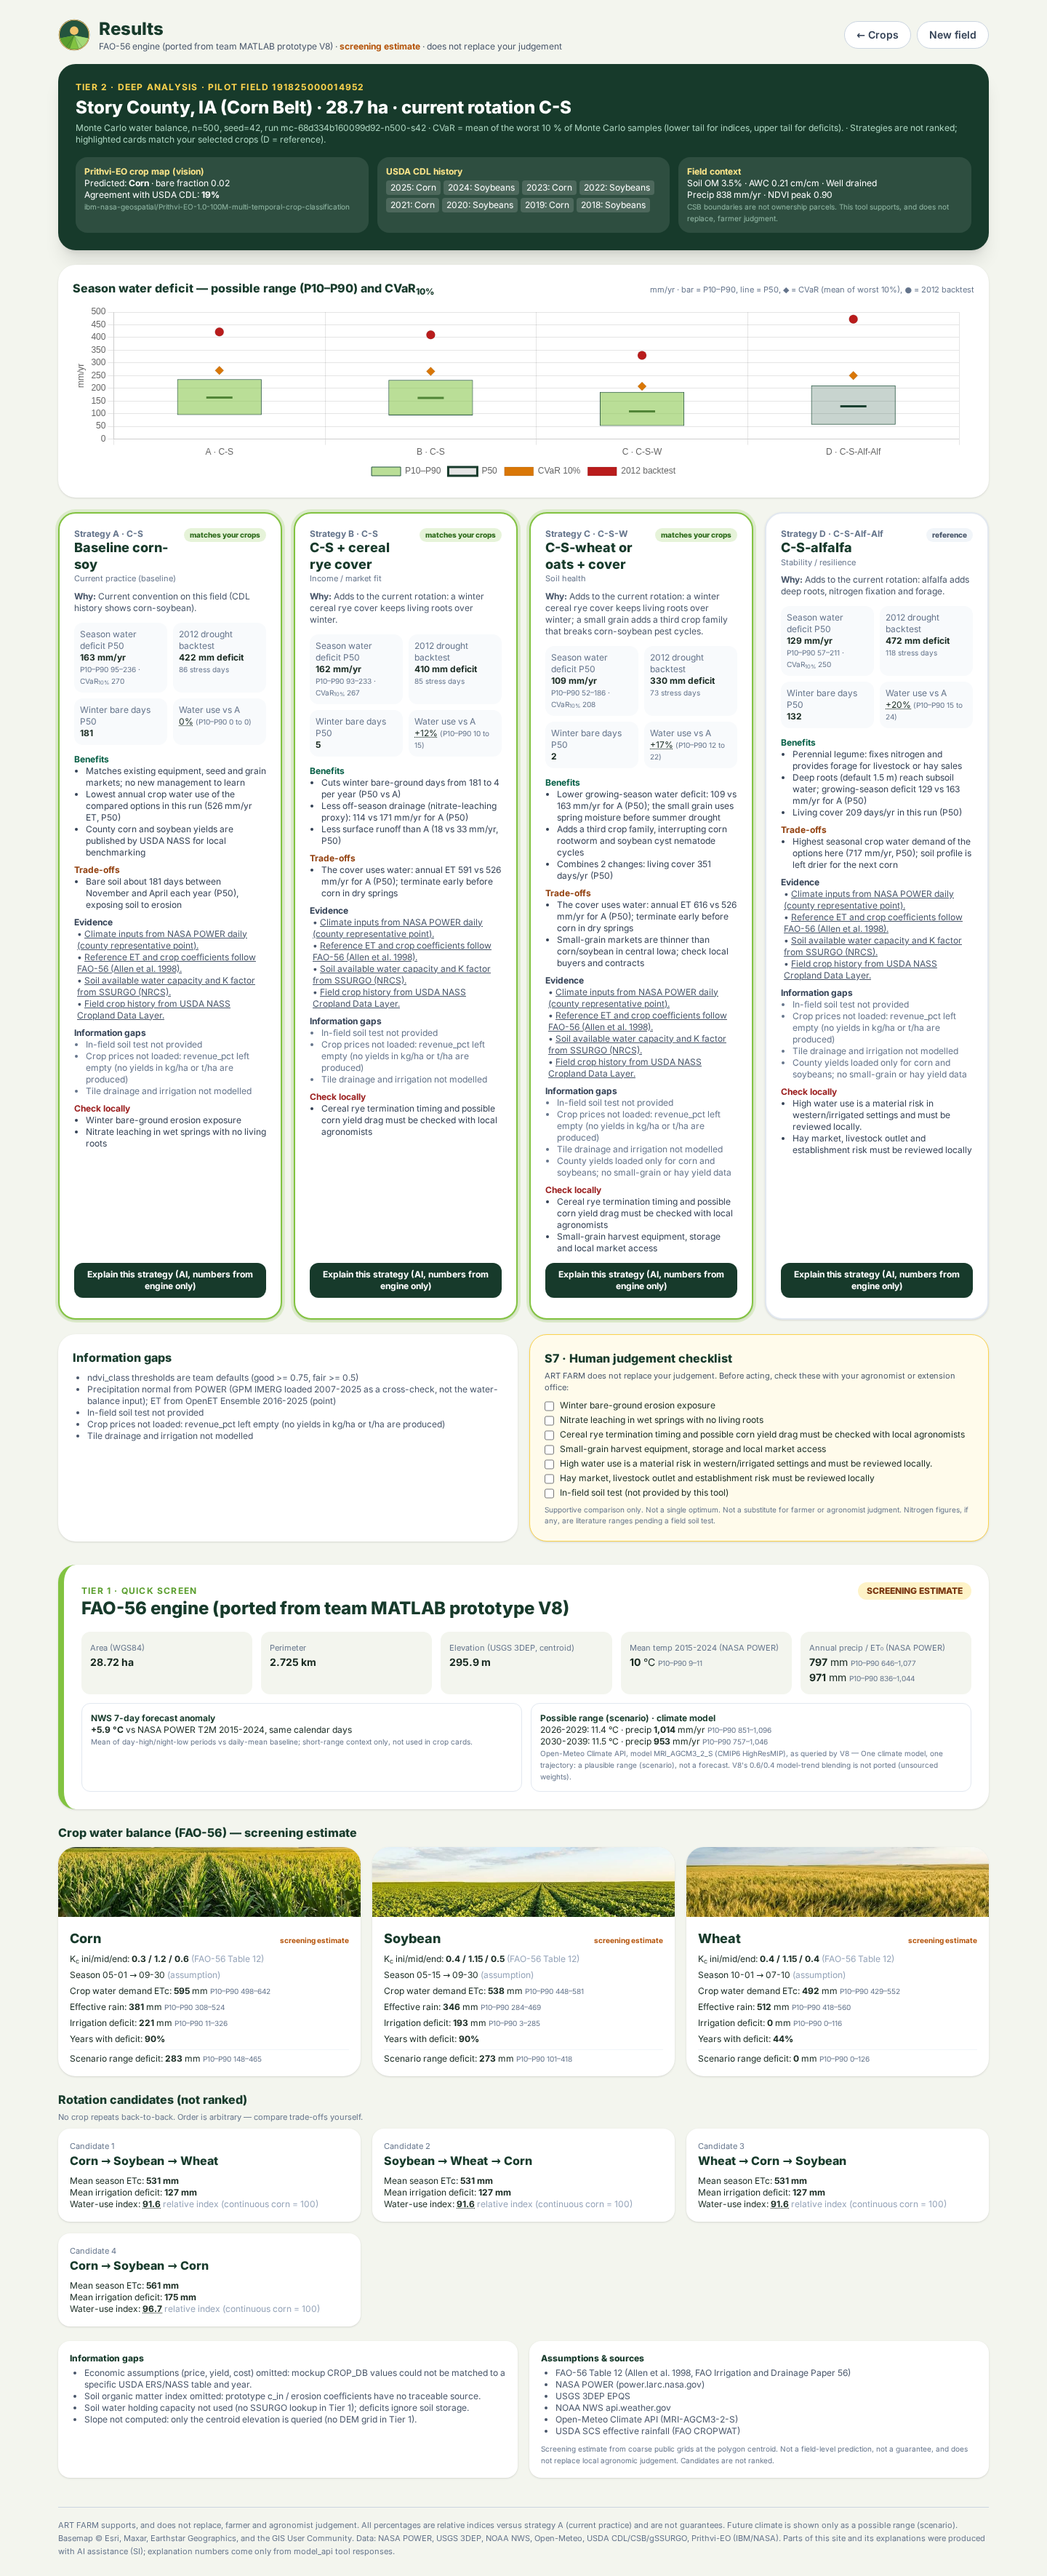
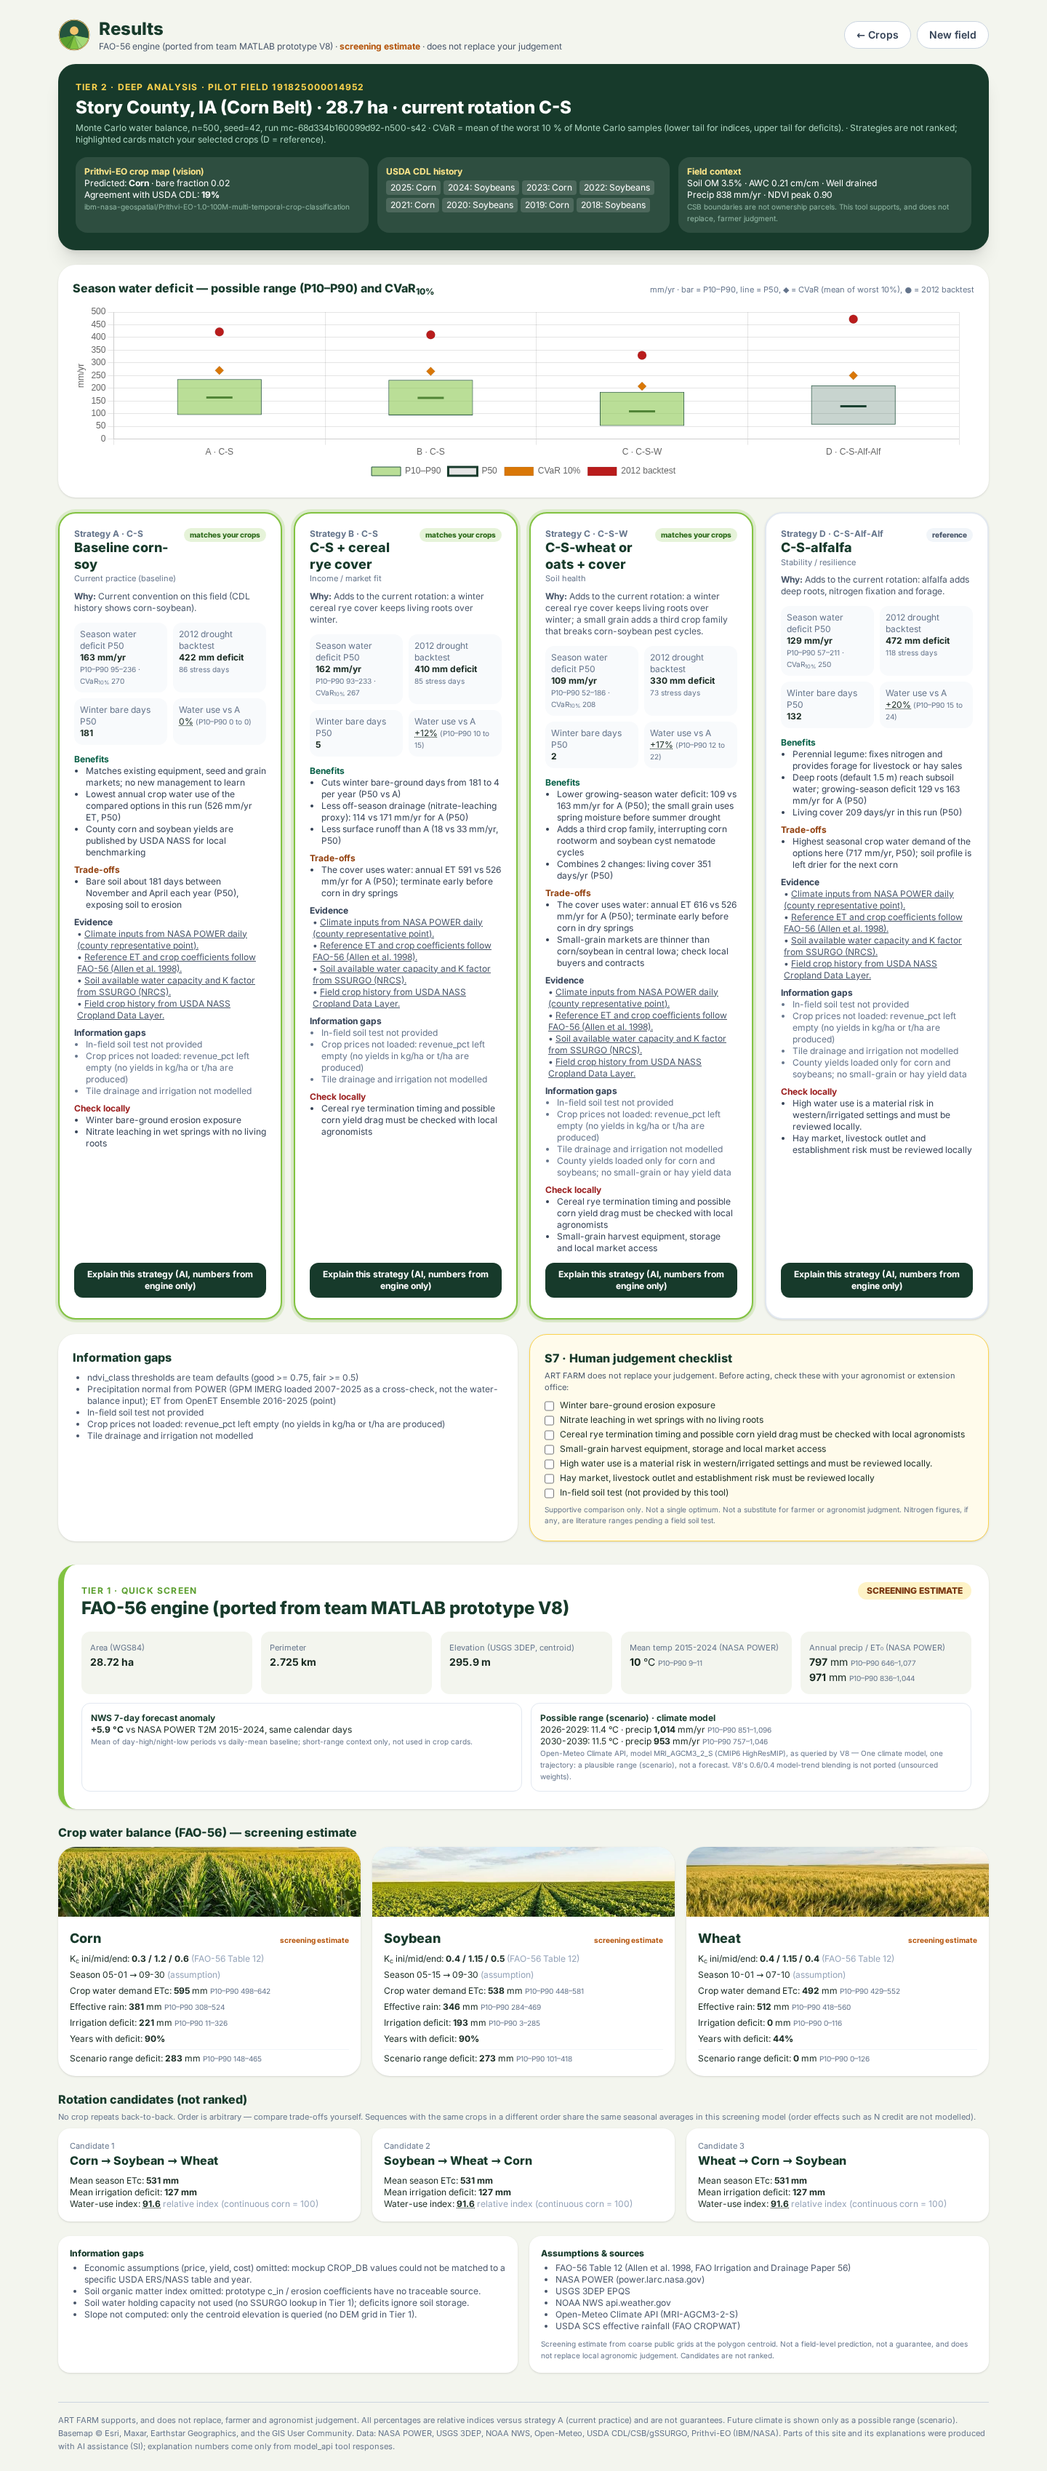
fix(model): enforce cyclic no-repeat in /quick rotations; record web decisions; refresh screenshots

diff --git a/model_api/quick.py b/model_api/quick.py
@@ -322,14 +322,16 @@ def normalize_crops(crops: list[str]) -> list[str]:
 
 def rotation_candidates(crops: list[str]) -> list[list[str]]:
     """V8 generation rule: 2 crops -> both 2-year orders; 3 crops -> V8 3-year list filtered to the selection.
-    No consecutive duplicates. Output order is generation order, NOT a ranking."""
+    No consecutive duplicates, including across the cycle wrap. Output order is generation order, NOT a ranking."""
     u = list(dict.fromkeys(crops))
     if len(u) == 2:
         seqs = [[u[0], u[1]], [u[1], u[0]]]
     else:
         seqs = [["Corn", "Soy", "Wheat"], ["Soy", "Wheat", "Corn"], ["Wheat", "Corn", "Soy"], ["Corn", "Soy", "Corn"]]
         seqs = [s for s in seqs if set(s) <= set(u)]
-    return [s for s in seqs if all(a != b for a, b in zip(s, s[1:]))]
+    # cyclic check: the rotation repeats, so last->first must also differ (drops V8's Corn-Soy-Corn,
+    # which becomes corn-after-corn when the cycle restarts)
+    return [s for s in seqs if all(a != b for a, b in zip(s, s[1:] + s[:1]))]
 
 
 # --------------------------------------------------------------------------------------------- main

diff --git a/model_api/tests/test_quick.py b/model_api/tests/test_quick.py
@@ -130,6 +130,8 @@ def test_success_shape(client, fake_http):
 
 def test_two_crop_rotations():
     assert quick.rotation_candidates(["Corn", "Soy"]) == [["Corn", "Soy"], ["Soy", "Corn"]]
+    for seq in quick.rotation_candidates(["Corn", "Soy", "Wheat"]):
+        assert all(a != b for a, b in zip(seq, seq[1:] + seq[:1]))
 
 
 def test_failure_gives_null_and_info_gap(fake_http):

diff --git a/docs/DECISIONS.md b/docs/DECISIONS.md
@@ -105,3 +105,9 @@
 
 - **결정 (임베딩).** RAG 임베딩은 `intfloat/multilingual-e5-small`(MIT, 384차원, 한국어·영어)이다. SOT 5절 DDL의 `vector(1536)`을 `vector(384)`로 바꾼다. 데이터 레인(`feat/26-data-spike`, `sql/001_sot_schema.sql`)이 이미 384로 적재했다. Hylē 승인.
   - 문서 청크는 `passage: `, 질의는 `query: ` 접두사를 붙인다. 중국에서 개발된 모델은 쓰지 않는다(주최 측 비권장).
+
+## 2026-11-15 19:15 · ART FARM 웹 2단 구조 (L1)
+
+- **결정 (웹).** 공개 데모는 `infra/web`(Starlette, 127.0.0.1:8095) + Cloudflare quick tunnel. `frontend/`는 빌드 없는 HTML/JS(Tailwind CDN, Leaflet + Esri World Imagery, Chart.js). Tier 1 `POST /quick`(V8 FAO-56 포팅, 외부 응답 디스크 캐시, 실패 시 null + info_gaps, 대체 상수 없음), Tier 2는 폴리곤이 20개 데모 필지와 겹칠 때 `/simulate`·`/validation/backtest`·`/explain`.
+- **결정 (윤작 후보).** 연속 동일 작물 금지를 순환(마지막→처음)까지 적용해 V8의 Corn-Soy-Corn 후보를 뺀다. 경제 가정(목업 CROP_DB)은 USDA ERS/NASS 표·연도를 확인하지 못해 제외하고 info_gap으로 남긴다.
+- **원인 기록 (MATLAB).** 서버에서 MATLAB이 "안 돈" 원인은 스크립트 파일명이 내부 함수명(`select_cornbelt_4vertices`)과 같았기 때문이다. 서버 문제가 아니다.
